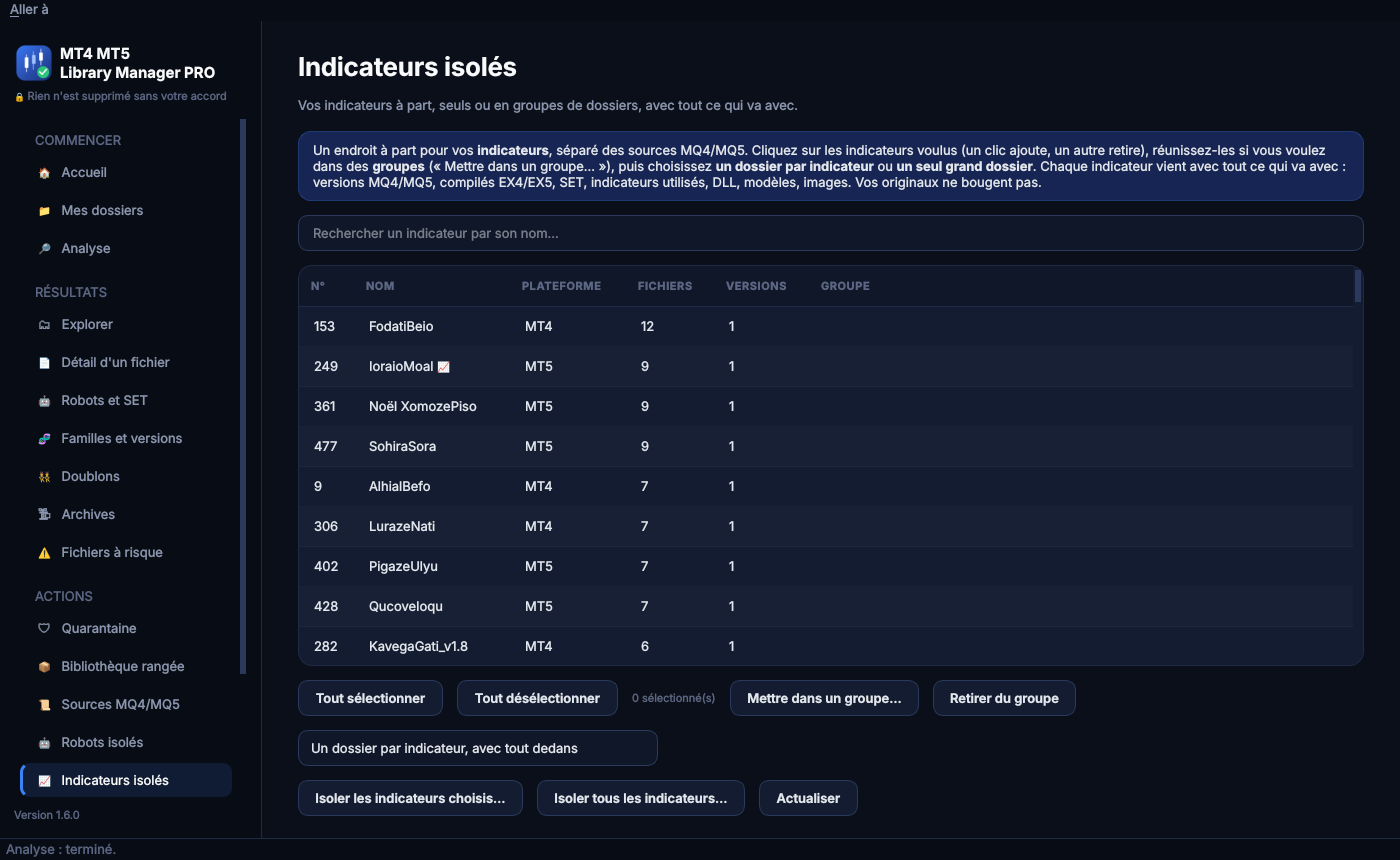
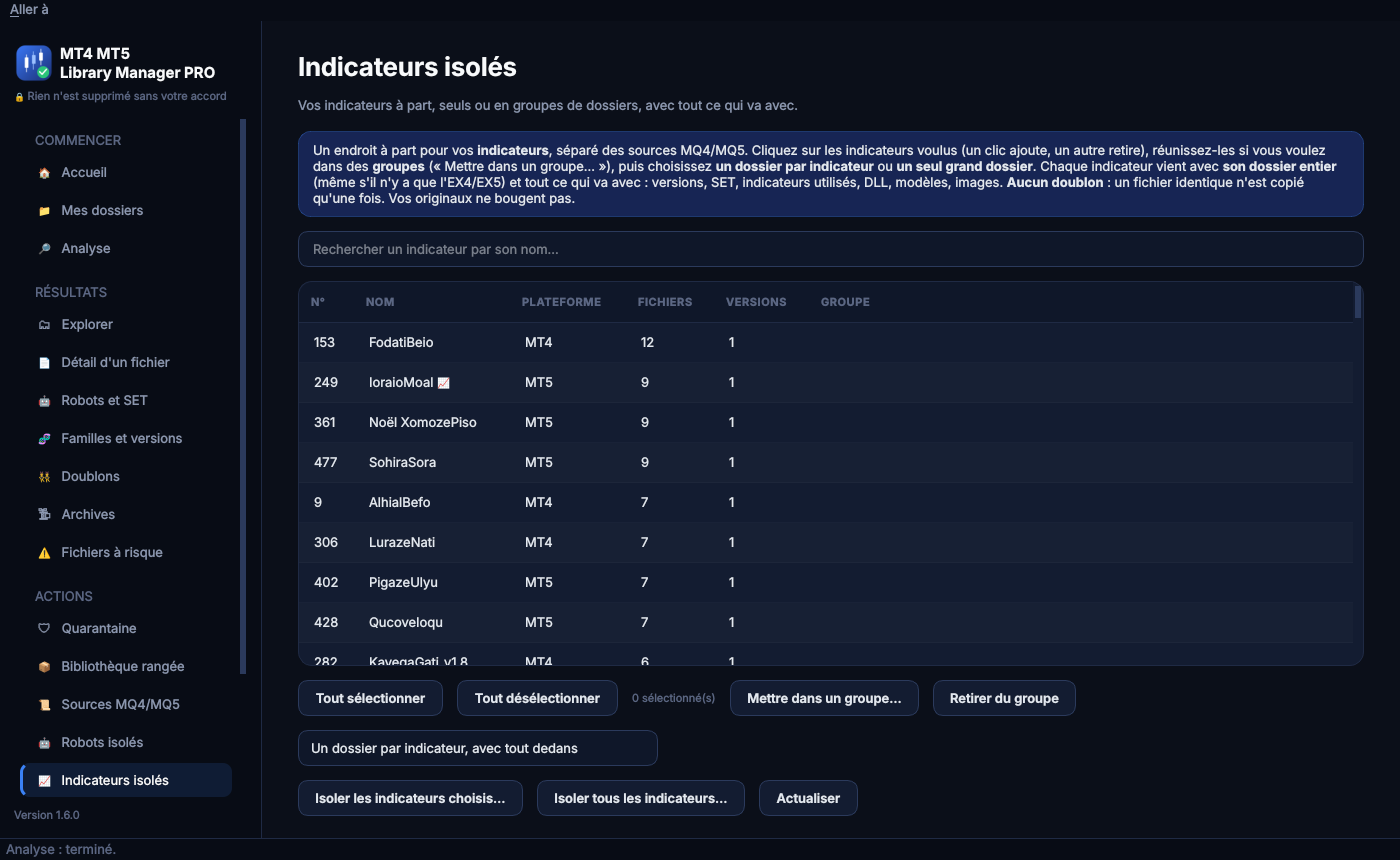
1.6.0 : isolement avec le dossier entier du robot, sans doublon [publier]
- Robots isolés / Indicateurs isolés : chaque outil avec son dossier entier, trouvé
  au-dessus des dossiers standard (MQL4/Experts…), même s'il n'y a que l'EX4/EX5.
- Aucun doublon : copies identiques jamais recopiées (aussi dans Sources MQ4/MQ5) ;
  dossiers redondants laissés de côté ; la copie de référence est préférée.
- Analyse ciblée : fichiers du dossier d'un robot au-dessus de MQL4/Experts lus aussi.

Claude-Session: https://claude.ai/code/session_014aWfde4Zbe8SenYXBGPeup

Changed region(s): [[0.215, 0.1814, 0.9829, 0.786]]

diff --git a/src/mtlm/app/organize.py b/src/mtlm/app/organize.py
@@ -634,7 +634,7 @@ class OrganizeService:
             name = self._family_name(family_id)
             names.append(name)
             prefix = base if mode == "un_dossier" else f"{base}{_component(name)}/"
-            _name, items = self._family_selection(family_id, prefix)
+            items = self._tool_with_folders(family_id, prefix)
             if mode == "un_dossier":
                 items = [(r, f"{base}{_component(str(r[9]))}") for r, _t in items]
             selection.extend(items)
@@ -655,6 +655,57 @@ class OrganizeService:
             excluded_q,
             excluded_d,
         )
+
+    def _tool_with_folders(self, family_id: int, prefix: str) -> list[tuple[tuple[Any, ...], str]]:
+        """Un outil (famille) avec **son dossier entier** : chaque dossier propre à l'outil
+        (voir :meth:`own_folder`) est repris complet, sous-dossiers compris (SET, images,
+        notices…), puis s'ajoutent les autres fichiers de la famille et ce qui va avec
+        (indicateurs utilisés, DLL, modèles…)."""
+        members = [
+            int(r[0])
+            for r in self._conn.execute(
+                "SELECT fm.file_id FROM family_member fm JOIN file_record f ON f.id = fm.file_id"
+                " WHERE fm.family_id = ? AND f.ext IN ('mq4', 'mq5', 'ex4', 'ex5')"
+                " ORDER BY fm.file_id",
+                (family_id,),
+            )
+        ]
+        folders: list[tuple[int, str]] = []
+        for member in members:
+            found = self.own_folder(member)
+            if found and found not in folders:
+                folders.append(found)
+        # Un dossier contenu dans un autre n'est pris qu'une fois (le plus grand).
+        folders = [
+            (root, d)
+            for root, d in folders
+            if not any(r2 == root and d.startswith(d2 + "/") for r2, d2 in folders)
+        ]
+        # Pas de doublon : un dossier qui n'apporte rien de nouveau (copie identique d'un
+        # autre, ou d'une partie) est laissé de côté ; le plus complet passe en premier.
+        contents = {folder: self._files(self._folder_members(*folder)) for folder in folders}
+        kept: list[tuple[int, str]] = []
+        seen: set[int] = set()
+        for folder in sorted(folders, key=lambda f: (-len(contents[f]), f[1])):
+            new = {int(r[8]) for r in contents[folder].values()} - seen
+            if new:
+                kept.append(folder)
+                seen |= {int(r[8]) for r in contents[folder].values()}
+        selection: list[tuple[tuple[Any, ...], str]] = []
+        taken: set[int] = set()
+        for folder in kept:
+            _root_id, directory = folder
+            sub = f"{_component(directory.rpartition('/')[2])}/" if len(kept) > 1 else ""
+            start = len(directory) + 1
+            for r in contents[folder].values():
+                relative = str(r[10])[start:]
+                selection.append(
+                    (r, prefix + sub + "/".join(_component(p) for p in relative.split("/")))
+                )
+                taken.add(int(r[0]))
+        _name, items = self._family_selection(family_id, prefix)
+        selection.extend(item for item in items if int(item[0][0]) not in taken)
+        return selection
 
     def _family_name(self, family_id: int) -> str:
         row = self._conn.execute(
@@ -722,43 +773,70 @@ class OrganizeService:
             )
         ]
 
-    def source_layout(self, source_ids: list[int]) -> dict[int, tuple[str, str]]:
-        """Pour chaque source : (« dossier », chemin du dossier propre au robot) si elle est
-        rangée dans un dossier qui ne contient qu'elle (et ses versions, compilés, SET,
-        images…), sinon (« seul », "") : le fichier est copié seul."""
-        rows = (
-            self._conn.execute(
-                "SELECT id, root_id, rel_path, name FROM file_record WHERE presence = 'present'"
-                f" AND id IN ({','.join('?' * len(source_ids))})",
-                source_ids,
-            ).fetchall()
-            if source_ids
-            else []
-        )
-        layout: dict[int, tuple[str, str]] = {}
-        for file_id, root_id, rel_path, name in rows:
-            directory = str(rel_path).rpartition("/")[0]
-            last = directory.rpartition("/")[2].casefold()
-            if not directory or last in STANDARD_CONTAINERS:
-                layout[int(file_id)] = ("seul", "")
-                continue
-            prefix = directory + "/"
-            inside = self._conn.execute(
-                "SELECT count(*) FROM file_record WHERE root_id = ? AND presence = 'present'"
-                " AND substr(rel_path, 1, ?) = ?",
+    def own_folder(self, file_id: int) -> tuple[int, str] | None:
+        """Dossier propre à l'outil du fichier ``file_id`` (robot, indicateur…), ou ``None``.
+
+        On part du dossier du fichier ; les dossiers « standard » (Experts, Indicators,
+        MQL4, MQL5, Presets, Téléchargements…) sont traversés sans s'y arrêter : pour
+        ``Gold/MQL4/Experts/Gold.ex4``, le dossier du robot est ``Gold``. Le dossier retenu
+        doit être à son nom, ou ne contenir que cet outil (ses versions, compilés, SET,
+        images…), et au plus :data:`MAX_FOLDER_FILES` fichiers."""
+        row = self._conn.execute(
+            "SELECT root_id, rel_path, name FROM file_record WHERE id = ? AND presence = 'present'",
+            (file_id,),
+        ).fetchone()
+        if row is None:
+            return None
+        root_id, rel_path, name = int(row[0]), str(row[1]), str(row[2])
+        key = logical_key(name)
+        directory = rel_path.rpartition("/")[0]
+        while directory and directory.rpartition("/")[2].casefold() in STANDARD_CONTAINERS:
+            directory = directory.rpartition("/")[0]
+        if not directory:
+            return None
+        prefix = directory + "/"
+        inside = self._conn.execute(
+            "SELECT count(*) FROM file_record WHERE root_id = ? AND presence = 'present'"
+            " AND substr(rel_path, 1, ?) = ?",
+            (root_id, len(prefix), prefix),
+        ).fetchone()[0]
+        if int(inside) > MAX_FOLDER_FILES:
+            return None
+        folder_key = logical_key(directory.rpartition("/")[2] + ".x")
+        named = len(key) >= 3 and len(folder_key) >= 3 and (key in folder_key or folder_key in key)
+        if named:
+            return root_id, directory
+        tools = {
+            logical_key(str(n))
+            for (n,) in self._conn.execute(
+                "SELECT name FROM file_record WHERE root_id = ? AND presence = 'present'"
+                " AND substr(rel_path, 1, ?) = ? AND ext IN ('mq4', 'mq5', 'ex4', 'ex5')",
                 (root_id, len(prefix), prefix),
-            ).fetchone()[0]
-            tools = {
-                logical_key(str(n))
-                for (n,) in self._conn.execute(
-                    "SELECT name FROM file_record WHERE root_id = ? AND presence = 'present'"
-                    " AND substr(rel_path, 1, ?) = ? AND ext IN ('mq4', 'mq5', 'ex4', 'ex5')",
-                    (root_id, len(prefix), prefix),
-                )
-            }
-            own = tools == {logical_key(str(name))} and int(inside) <= MAX_FOLDER_FILES
-            layout[int(file_id)] = ("dossier", directory) if own else ("seul", "")
+            )
+        }
+        return (root_id, directory) if tools == {key} else None
+
+    def source_layout(self, source_ids: list[int]) -> dict[int, tuple[str, str]]:
+        """Pour chaque source : (« dossier », chemin du dossier propre à l'outil) si elle a
+        son propre dossier (voir :meth:`own_folder`), sinon (« seul », "")."""
+        layout: dict[int, tuple[str, str]] = {}
+        for file_id in source_ids:
+            found = self.own_folder(file_id)
+            layout[int(file_id)] = ("dossier", found[1]) if found else ("seul", "")
         return layout
+
+    def _folder_members(self, root_id: int, directory: str) -> list[int]:
+        prefix = directory + "/"
+        return [
+            int(f)
+            for (f,) in self._conn.execute(
+                "SELECT f.id FROM file_record f LEFT JOIN duplicate_member dm"
+                " ON dm.file_id = f.id WHERE f.root_id = ? AND f.presence = 'present'"
+                " AND f.file_type = 'file' AND substr(f.rel_path, 1, ?) = ?"
+                " ORDER BY coalesce(dm.is_reference, 0) DESC, f.rel_path",
+                (root_id, len(prefix), prefix),
+            )
+        ]
 
     def isolation_candidates(self, source_ids: list[int]) -> list[IsolationCandidate]:
         """Fichiers qui peuvent aller avec chaque source (SET associés, fichiers liés,
@@ -873,15 +951,7 @@ class OrganizeService:
                     name = _component(directory.rpartition("/")[2])
                     copied_folders[key] = f"{platform}/{name}"
                     prefix = directory + "/"
-                    members = [
-                        int(f)
-                        for (f,) in self._conn.execute(
-                            "SELECT id FROM file_record WHERE root_id = ? AND presence = 'present'"
-                            " AND file_type = 'file' AND substr(rel_path, 1, ?) = ?"
-                            " ORDER BY rel_path",
-                            (root_id, len(prefix), prefix),
-                        )
-                    ]
+                    members = self._folder_members(root_id, directory)
                     for member in self._files(members).values():
                         relative = str(member[10])[len(prefix) :]
                         selection.append(
@@ -903,7 +973,8 @@ class OrganizeService:
             for r in self._files([file_id]).values():
                 selection.append((r, f"{folder_of[source_id]}/{_component(str(r[9]))}"))
                 added += 1
-        planned, collisions, excluded_q, excluded_d = self._place(selection, by_content=False)
+        # 1.6.0 : jamais de doublon dans le dossier créé (une copie par contenu identique).
+        planned, collisions, excluded_q, excluded_d = self._place(selection)
         if not planned:
             raise OrganizeError("Aucune source MQ4/MQ5 analysée.")
         return self._record_plan(

diff --git a/tests/integration/test_proposals.py b/tests/integration/test_proposals.py
@@ -80,8 +80,14 @@ def test_isoler_sources_mq_fichier_seul_et_set_valides(tmp_path: Path, ctx: AppC
     assert sets
     validated = service.preview_sources(mkd(tmp_path / "Dest2"), None, sets)
     with_sets = [t for _f, t, _s, _c in service.items(validated.plan_id)]
-    folders_with_source = {t.rpartition("/")[0] for t in with_sets if t.endswith(".mq4")}
-    assert all(t.rpartition("/")[0] in folders_with_source for t in with_sets if t.endswith(".set"))
+    # Chaque SET validé rejoint le dossier de sa source (une source identique à une autre
+    # n'est pas recopiée : pas de doublon, mais son SET garde son dossier).
+    stems = {
+        f"MQ4/{str(n).rpartition('.')[0]}"
+        for (n,) in ctx.conn.execute("SELECT name FROM file_record WHERE ext = 'mq4'")
+    }
+    assert all(t.rpartition("/")[0] in stems for t in with_sets if t.endswith(".set"))
+    assert validated.excluded_duplicates >= 1
     result = service.execute(validated.plan_id, validated.token)
     assert result.status == "completed"
     assert diff_snapshots(before, take_snapshot(lib)) == []
@@ -106,9 +112,9 @@ def test_dossier_propre_copie_complet_tel_quel(tmp_path: Path, ctx: AppContext) 
         "MQ4/Gold Scalper Pro/Gold Scalper Pro.mq4",
         "MQ4/Gold Scalper Pro/Gold Scalper Pro.ex4",
         "MQ4/Gold Scalper Pro/Presets/eurusd.set",
-        "MQ4/Gold Scalper Pro/Presets/copie.set",
         "MQ4/Gold Scalper Pro/Images/logo.png",
     }
+    assert preview.excluded_duplicates == 1  # « copie.set », identique : pas de doublon
     assert service.execute(preview.plan_id, preview.token).status == "completed"
 
 
@@ -121,3 +127,33 @@ def test_propositions_refusees_si_destination_invalide(tmp_path: Path, ctx: AppC
         service.preview_sources(lib / "MQL4")  # dans une source : refusé
     with pytest.raises(OrganizeError, match="inconnue"):
         service.preview_family(mkd(tmp_path / "Dest"), 999_999)
+
+
+def test_robot_isole_avec_son_dossier_entier_sans_doublon(tmp_path: Path, ctx: AppContext) -> None:
+    """1.6.0 : un robot (même seulement compilé) est copié avec son dossier entier, au-dessus
+    de « MQL4/Experts » ; une copie identique ailleurs n'est pas recopiée."""
+    lib = tmp_path / "lib"
+    pack = lib / "Telechargements" / "Gold Pack"
+    for rel, data in {
+        "MQL4/Experts/Gold.ex4": b"EX4 fictif gold",
+        "MQL4/Indicators/Helper.ex4": b"EX4 fictif helper",
+        "Presets/eurusd.set": b"Lots=0.1\n",
+        "Manuel.pdf": b"%PDF-1.4 manuel",
+    }.items():
+        (pack / rel).parent.mkdir(parents=True, exist_ok=True)
+        (pack / rel).write_bytes(data)
+    (lib / "Autre" / "Experts").mkdir(parents=True)
+    (lib / "Autre" / "Experts" / "Gold.ex4").write_bytes(b"EX4 fictif gold")  # identique
+    analyse(ctx, lib)
+    service = organize(ctx)
+    family = family_of(ctx, "Telechargements/Gold Pack/MQL4/Experts/Gold.ex4")
+    preview = service.preview_isolated(mkd(tmp_path / "Dest"), "ea", [family])
+    targets = {t for _f, t, _s, _c in service.items(preview.plan_id)}
+    assert targets == {
+        "Gold/MQL4/Experts/Gold.ex4",
+        "Gold/MQL4/Indicators/Helper.ex4",
+        "Gold/Presets/eurusd.set",
+        "Gold/Manuel.pdf",
+    }
+    assert preview.excluded_duplicates >= 1
+    assert service.execute(preview.plan_id, preview.token).status == "completed"

diff --git a/src/mtlm/app/hashing.py b/src/mtlm/app/hashing.py
@@ -44,6 +44,24 @@ METATRADER_EXTS = frozenset(
 )
 #: Archives : toujours lues (elles peuvent contenir des robots).
 ARCHIVE_EXTS = frozenset({"zip", "rar", "7z", "gz", "tgz", "bz2", "xz", "tar"})
+#: Dossiers standard de MetaTrader traversés pour trouver le dossier propre d'un robot.
+MT_CONTAINERS = frozenset(
+    {
+        "experts",
+        "indicators",
+        "scripts",
+        "libraries",
+        "include",
+        "files",
+        "presets",
+        "mql4",
+        "mql5",
+        "services",
+        "templates",
+        "images",
+        "sounds",
+    }
+)
 #: Autres fichiers : lus seulement dans un dossier de robot (ou 2 niveaux en dessous).
 NEAR_LEVELS = 2
 MAX_COMPANION_BYTES = 256 * 1024 * 1024
@@ -147,14 +165,20 @@ class HashService:
         documents, sous-dossiers…) seulement s'ils sont rangés dans un dossier qui contient
         des fichiers MetaTrader, ou juste en dessous (2 niveaux), et pas trop gros. Le reste
         du disque (vidéos, photos, images disque…) est seulement listé, pas lu."""
-        mt_dirs = {
-            (int(root), str(rel).rpartition("/")[0])
-            for root, rel in self._conn.execute(
-                "SELECT root_id, rel_path FROM file_record WHERE presence = 'present'"
-                f" AND ext IN ({','.join('?' * len(METATRADER_EXTS))})",
-                tuple(METATRADER_EXTS),
-            )
-        }
+        mt_dirs: set[tuple[int, str]] = set()
+        for root, rel in self._conn.execute(
+            "SELECT root_id, rel_path FROM file_record WHERE presence = 'present'"
+            f" AND ext IN ({','.join('?' * len(METATRADER_EXTS))})",
+            tuple(METATRADER_EXTS),
+        ):
+            directory = str(rel).rpartition("/")[0]
+            mt_dirs.add((int(root), directory))
+            # Dossier du robot au-dessus de « MQL4/Experts », « Indicators »… : ses notices,
+            # images et SET sont lus aussi (le dossier entier peut être copié).
+            while directory and directory.rpartition("/")[2].casefold() in MT_CONTAINERS:
+                directory = directory.rpartition("/")[0]
+                if directory:
+                    mt_dirs.add((int(root), directory))
 
         def near_metatrader(root: int, rel: str) -> bool:
             directory = rel.rpartition("/")[0]

diff --git a/src/mtlm/ui/pages_isolated.py b/src/mtlm/ui/pages_isolated.py
@@ -30,8 +30,10 @@ class IsolatedToolsPage(Page):
             "réunissez-les si vous voulez dans des <b>groupes</b> (« Mettre dans un "
             "groupe… »), puis choisissez <b>un dossier par "
             f"{self.singular}</b> ou <b>un seul grand dossier</b>. Chaque {self.singular} vient "
-            "avec tout ce qui va avec : versions MQ4/MQ5, compilés EX4/EX5, SET, indicateurs "
-            "utilisés, DLL, modèles, images. Vos originaux ne bougent pas.",
+            "avec <b>son dossier entier</b> (même s'il n'y a que l'EX4/EX5) et tout ce qui va "
+            "avec : versions, SET, indicateurs utilisés, DLL, modèles, images. <b>Aucun "
+            "doublon</b> : un fichier identique n'est copié qu'une fois. Vos originaux ne "
+            "bougent pas.",
             "banner",
         )
         filters = QHBoxLayout()

diff --git a/DECISIONS.md b/DECISIONS.md
@@ -230,6 +230,11 @@ l'utilise (un fichier n'apparaît qu'une fois par copie). Les dossiers standards
   `indicator` (sources et compilés). Destination « Robots isolés <date> » ou « Indicateurs
   isolés <date> » ; groupes nommés par l'utilisateur (gardés le temps de la session) ; un
   dossier par outil ou un seul grand dossier.
+* **Dossier entier, sans doublon** (demande du propriétaire) : l'isolement copie le dossier
+  propre de l'outil (remontée au-dessus des dossiers standard ; dossier à son nom ou ne
+  contenant que lui ; ≤ 2000 fichiers). Les copies identiques ne sont plus recopiées,
+  y compris dans « Sources MQ4/MQ5 » (remplace la « copie fidèle » de D-020). Les fichiers
+  d'un tel dossier sont lus par l'analyse ciblée.
 * **Reconnaissance** : pour un MQ4 ancien (`start()`), les fonctions utilisées priment sur
   le dossier (ordres = robot, tampons = indicateur) ; si les deux ou aucun, le dossier
   tranche. Contenu des archives reconnu en mémoire par un classificateur fourni par la

diff --git a/CHANGELOG.md b/CHANGELOG.md
@@ -3,6 +3,12 @@
 ## [1.6.0] — Analyse d'un disque entier plus rapide, rangement Robots / Indicateurs
 
 ### Modifié
+- **Dossier entier, sans doublon** (Robots isolés, Indicateurs isolés, Sources MQ4/MQ5) :
+  un robot ou indicateur est copié avec **son dossier entier** (sous-dossiers, SET, notices,
+  images), même s'il n'y a que l'EX4/EX5. Le dossier du robot est trouvé au-dessus des
+  dossiers standard (`Gold Pack/MQL4/Experts/Gold.ex4` → dossier `Gold Pack`). Une copie
+  identique n'est **jamais recopiée** ; un dossier qui n'apporte rien de nouveau est laissé
+  de côté.
 - **Empreintes ciblées** (réglage « Lire en entier tous les fichiers du disque », 0 par
   défaut) : seuls les fichiers MetaTrader (.mq4, .mq5, .mqh, .ex4, .ex5, .set, .tpl, .chr,
   .dll, .ini…), les archives, et les fichiers rangés dans un dossier de robot (ou jusqu'à

diff --git a/docs/utilisateur/disque-entier-et-rangement.md b/docs/utilisateur/disque-entier-et-rangement.md
@@ -48,6 +48,11 @@ images.
 4. « Isoler les robots choisis… » (ou « Isoler tous les robots… »), choisissez où créer le
    dossier, regardez l'aperçu et validez.
 
+Chaque robot vient avec **son dossier entier** (sous-dossiers, SET, notices, images),
+même s'il n'y a que le fichier EX4/EX5 : pour `Gold Pack/MQL4/Experts/Gold.ex4`, c'est tout
+le dossier `Gold Pack` qui est copié. **Aucun doublon** : un fichier identique à un autre
+n'est copié qu'une fois.
+
 Résultat : un nouveau dossier « Robots isolés <date> » (ou « Indicateurs isolés <date> »),
 par exemple `Or/Gold Robot/…`, `Scalpers/…`, `Autre robot/…`. C'est une **copie vérifiée** :
 vos fichiers d'origine ne bougent pas.
